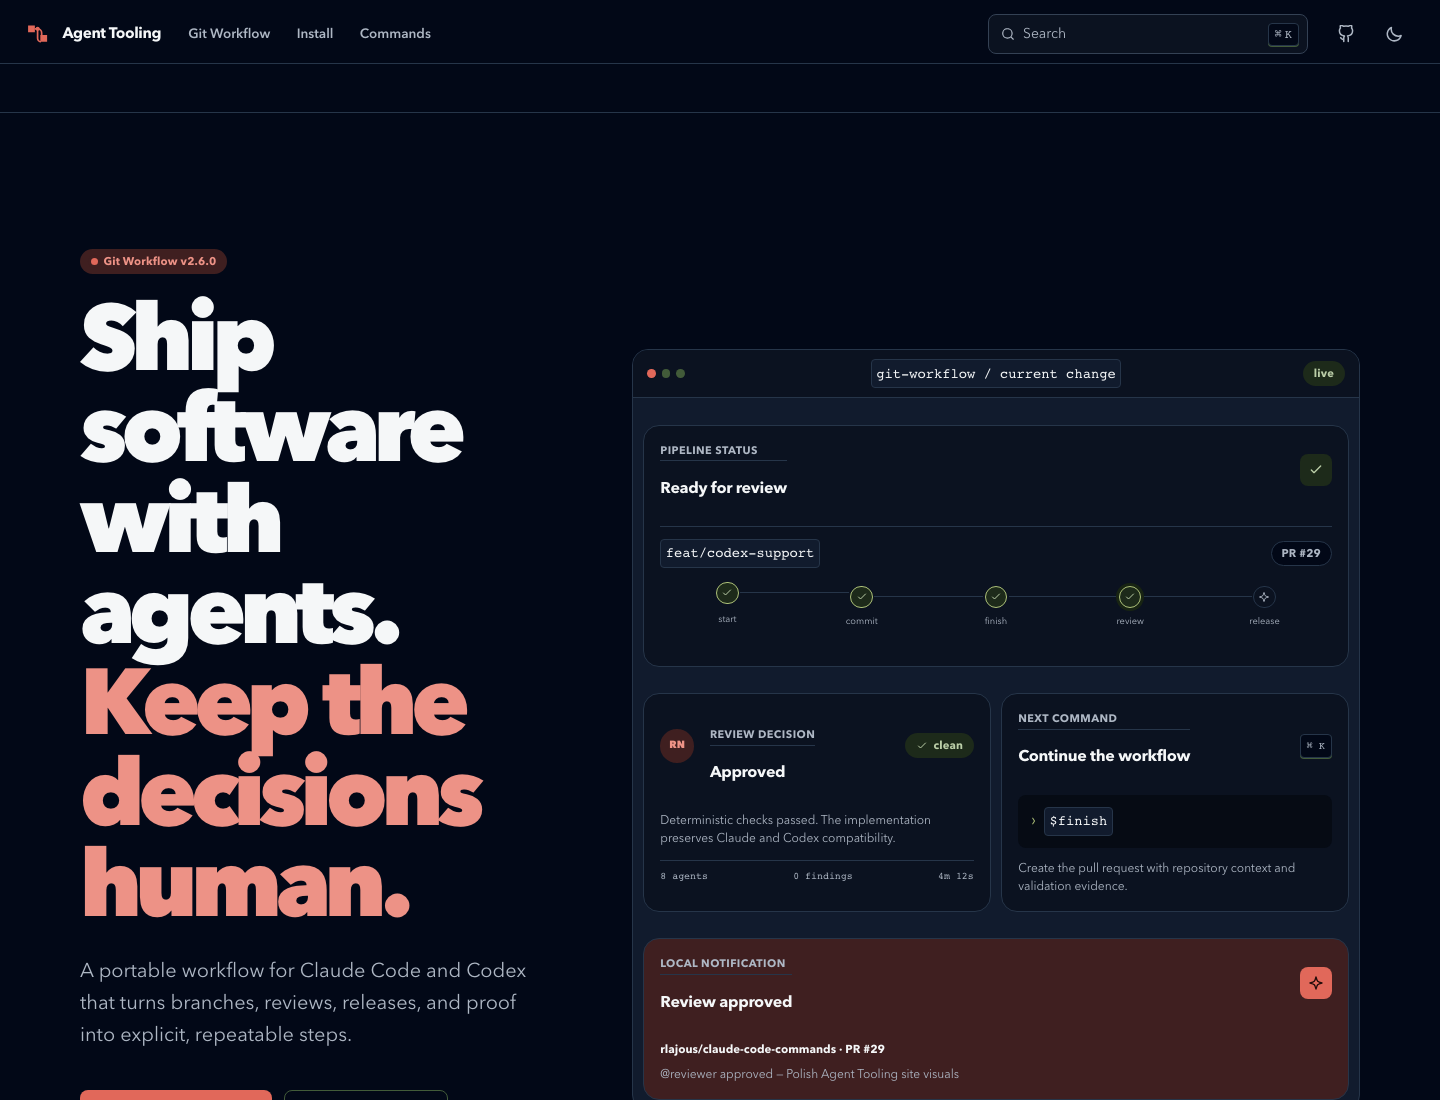
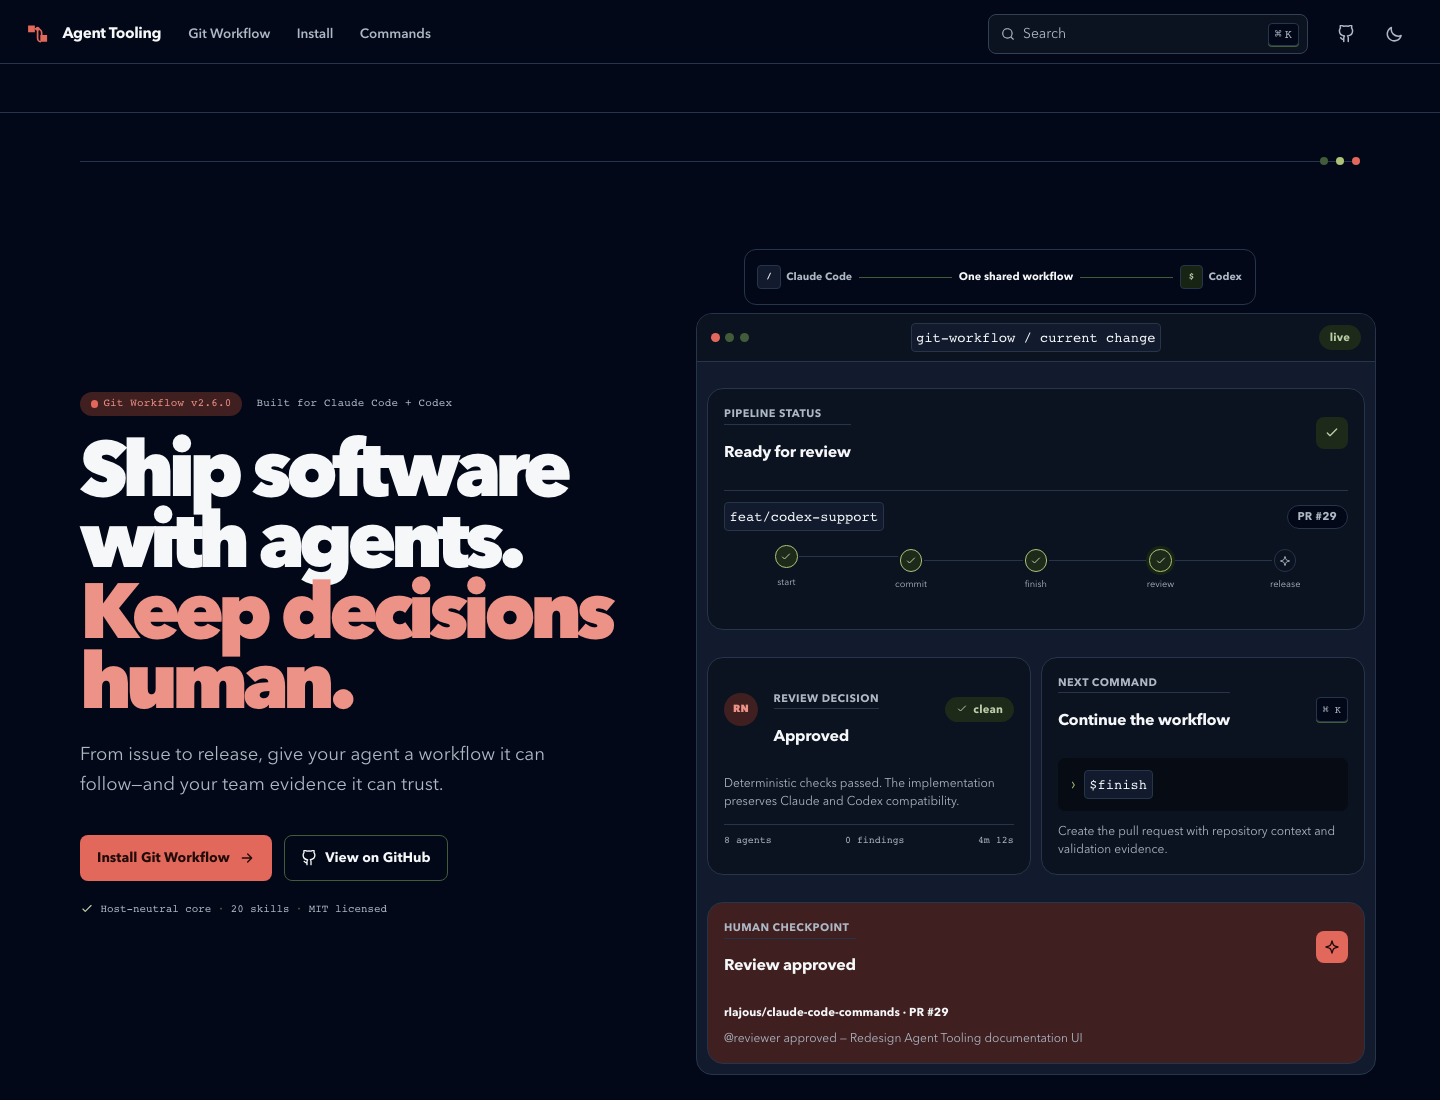
feat: strengthen documentation hero

diff --git a/site/src/styles/custom.css b/site/src/styles/custom.css
@@ -471,30 +471,65 @@ site-search dialog {
 .hub-landing p, .hub-landing h1, .hub-landing h2, .hub-landing h3 { margin: 0; }
 
 .product-hero {
+  position: relative;
   display: grid;
   align-items: center;
-  gap: clamp(3rem, 6vw, 6rem);
-  min-height: min(52rem, calc(100svh - 4rem));
-  padding: clamp(4rem, 9vw, 7rem) 0;
+  gap: clamp(3rem, 5vw, 5.5rem);
+  min-height: min(49rem, calc(100svh - 4rem));
+  padding: clamp(3.5rem, 7vw, 6rem) 0 clamp(4rem, 8vw, 6.5rem);
 }
 
-.hero-message { display: grid; justify-items: start; gap: 1.4rem; }
+.product-hero::before {
+  position: absolute;
+  inset: 1.5rem 0 auto;
+  height: 1px;
+  background: var(--border);
+  content: '';
+}
+
+.product-hero::after {
+  position: absolute;
+  top: 1.25rem;
+  right: 0;
+  width: 0.5rem;
+  height: 0.5rem;
+  border-radius: 50%;
+  background: var(--primary);
+  box-shadow: -1rem 0 0 var(--secondary-hover), -2rem 0 0 var(--border-strong);
+  content: '';
+}
+
+.hero-message { position: relative; z-index: 1; display: grid; justify-items: start; gap: 1.25rem; }
+.hero-kicker { display: flex; flex-wrap: wrap; align-items: center; gap: 0.7rem 0.9rem; }
+.hero-kicker > span { color: var(--muted-foreground); font: 0.68rem/1 var(--font-mono); letter-spacing: 0.02em; }
 .status-dot { width: 0.45rem; height: 0.45rem; border-radius: 50%; background: var(--primary); box-shadow: 0 0 0 3px var(--primary-surface); }
 
 .hero-message h1 {
-  max-width: 13ch;
-  font-size: clamp(3rem, 6.5vw, 5.8rem);
+  max-width: none;
+  font-size: clamp(3rem, 5.4vw, 4.85rem);
   font-weight: 760;
-  letter-spacing: -0.065em;
-  line-height: 0.98;
+  letter-spacing: -0.07em;
+  line-height: 0.91;
 }
-.hero-message h1 span { color: var(--primary-strong); }
-.hero-message > p { max-width: 55ch; color: var(--muted-foreground); font-size: clamp(1.05rem, 1.6vw, 1.25rem); line-height: 1.6; }
+.hero-line { display: block; white-space: nowrap; }
+.hero-line-accent { color: var(--primary-strong); }
+.hero-message > p:not(.hero-assurance) { max-width: 47ch; color: var(--muted-foreground); font-size: clamp(1.02rem, 1.4vw, 1.16rem); line-height: 1.62; }
 .hero-actions { display: flex; flex-wrap: wrap; gap: 0.75rem; }
-.hero-facts { display: flex; flex-wrap: wrap; align-items: center; gap: 0.8rem; color: var(--muted-foreground); font-size: 0.78rem; }
-.hero-facts strong { color: var(--foreground); font-variant-numeric: tabular-nums; }
+.hero-assurance { display: flex; flex-wrap: wrap; align-items: center; gap: 0.4rem; color: var(--muted-foreground); font: 0.68rem/1.4 var(--font-mono); }
+.hero-assurance > svg { color: var(--success); }
+.hero-assurance > span { color: var(--border-strong); }
 
-.product-playground { border: 1px solid var(--border); border-radius: var(--radius-xl); background: var(--muted); box-shadow: var(--shadow-lg); overflow: hidden; }
+.hero-visual { position: relative; min-width: 0; padding-top: 3rem; }
+.runtime-intake { position: absolute; z-index: 2; top: 0; left: clamp(0.5rem, 4vw, 3rem); display: grid; width: min(32rem, calc(100% - 2rem)); min-height: 3.5rem; align-items: center; border: 1px solid var(--border); border-radius: var(--radius-lg); background: var(--background); box-shadow: var(--shadow-md); color: var(--muted-foreground); grid-template-columns: auto minmax(1rem, 1fr) auto minmax(1rem, 1fr) auto; padding: 0.55rem 0.8rem; }
+.runtime-intake > span { display: inline-flex; align-items: center; gap: 0.35rem; font-size: 0.66rem; font-weight: 700; white-space: nowrap; }
+.runtime-intake code { display: grid; width: 1.45rem; height: 1.45rem; border-radius: var(--radius-sm); background: var(--primary-surface); color: var(--primary-strong); font-weight: 800; place-items: center; }
+.runtime-intake > span:last-child code { background: var(--secondary-surface); color: var(--secondary-strong); }
+.runtime-intake strong { color: var(--foreground); font-size: 0.68rem; text-align: center; white-space: nowrap; }
+.runtime-path { display: flex; align-items: center; padding-inline: 0.45rem; }
+.runtime-path::before { width: 100%; height: 1px; background: var(--border-strong); content: ''; }
+.runtime-path i { display: none; }
+
+.product-playground { position: relative; border: 1px solid var(--border); border-radius: var(--radius-xl); background: var(--muted); box-shadow: var(--shadow-lg); overflow: hidden; }
 .playground-toolbar { display: grid; min-height: 3rem; align-items: center; border-bottom: 1px solid var(--border); background: var(--card); padding: 0 0.9rem; grid-template-columns: 1fr auto 1fr; }
 .playground-toolbar > div { display: flex; gap: 0.35rem; }
 .playground-toolbar > div span { width: 0.55rem; height: 0.55rem; border-radius: 50%; background: var(--border-strong); }
@@ -617,15 +652,20 @@ site-search dialog {
 }
 
 @media (min-width: 68rem) {
-  .product-hero { grid-template-columns: minmax(24rem, 0.78fr) minmax(34rem, 1.22fr); }
+  .product-hero { grid-template-columns: minmax(28rem, 0.9fr) minmax(34rem, 1.1fr); }
+  .hero-visual { margin-right: -1rem; }
 }
 
 @media (max-width: 30rem) {
   .hub-landing { width: min(var(--content-max), calc(100vw - 1rem)); }
   .hero-actions, .hero-actions .ui-button, .closing-call > div, .closing-call .ui-button { width: 100%; }
-  .hero-message h1 { font-size: clamp(2.75rem, 14.5vw, 4rem); }
-  .hero-facts .ui-separator { display: none; }
-  .hero-facts { gap: 0.5rem 1rem; }
+  .hero-message h1 { font-size: clamp(2.65rem, 13.3vw, 3.35rem); line-height: 0.94; }
+  .hero-kicker > span { width: 100%; }
+  .runtime-intake { left: 0.35rem; width: calc(100% - 0.7rem); grid-template-columns: auto minmax(0.5rem, 1fr) auto minmax(0.5rem, 1fr) auto; padding-inline: 0.55rem; }
+  .runtime-intake > span { font-size: 0; }
+  .runtime-intake > span code { font-size: 0.7rem; }
+  .runtime-intake strong { font-size: 0.61rem; }
+  .runtime-path { padding-inline: 0.25rem; }
   .playground-toolbar code { display: none; }
   .playground-toolbar { grid-template-columns: 1fr auto; }
   .review-card .ui-card-header { align-items: flex-start; flex-wrap: wrap; }

diff --git a/site/tests/site.spec.ts b/site/tests/site.spec.ts
@@ -20,6 +20,7 @@ test('landing page presents both hosts and real evidence', async ({ page }) => {
   await expect(page.getByRole('heading', { level: 1, name: /Ship software with agents/ })).toBeVisible();
   await expect(page.getByRole('tab', { name: 'Claude Code' })).toBeVisible();
   await expect(page.getByRole('tab', { name: 'Codex' })).toBeVisible();
+  await expect(page.getByLabel('Claude Code and Codex use one shared workflow')).toContainText('One shared workflow');
   await expect(page.getByRole('heading', { name: 'Ready for review' })).toBeVisible();
   await expect(page.getByText('20 shared skills', { exact: true }).first()).toBeVisible();
   const notificationImages = page.locator('.notification-stack img');
